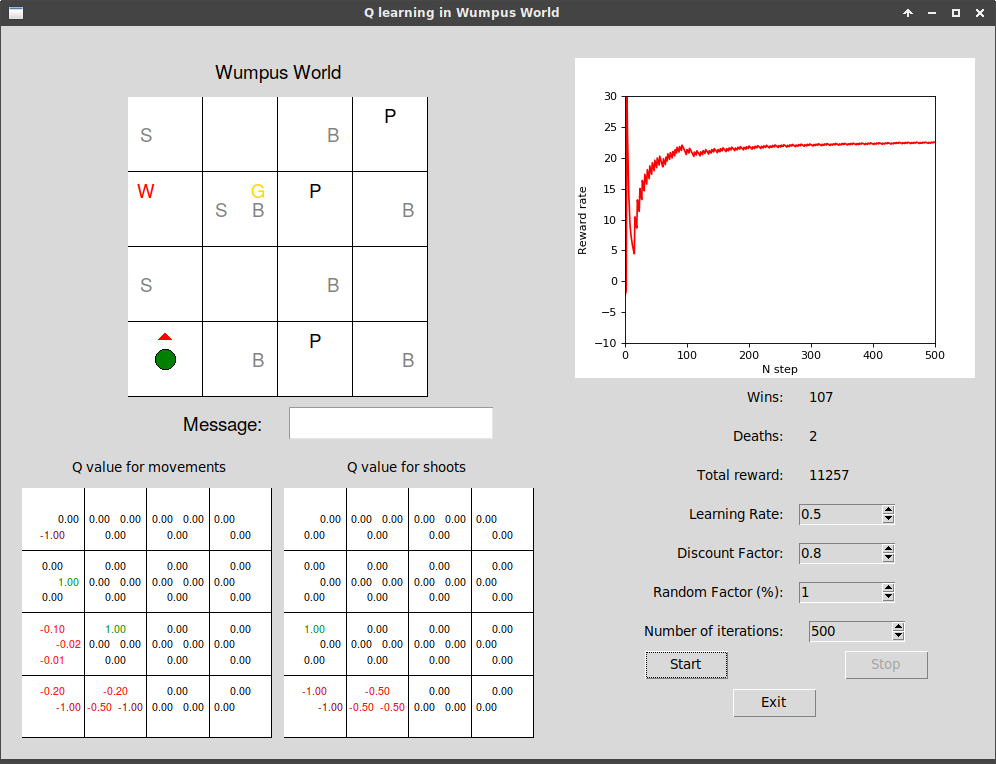
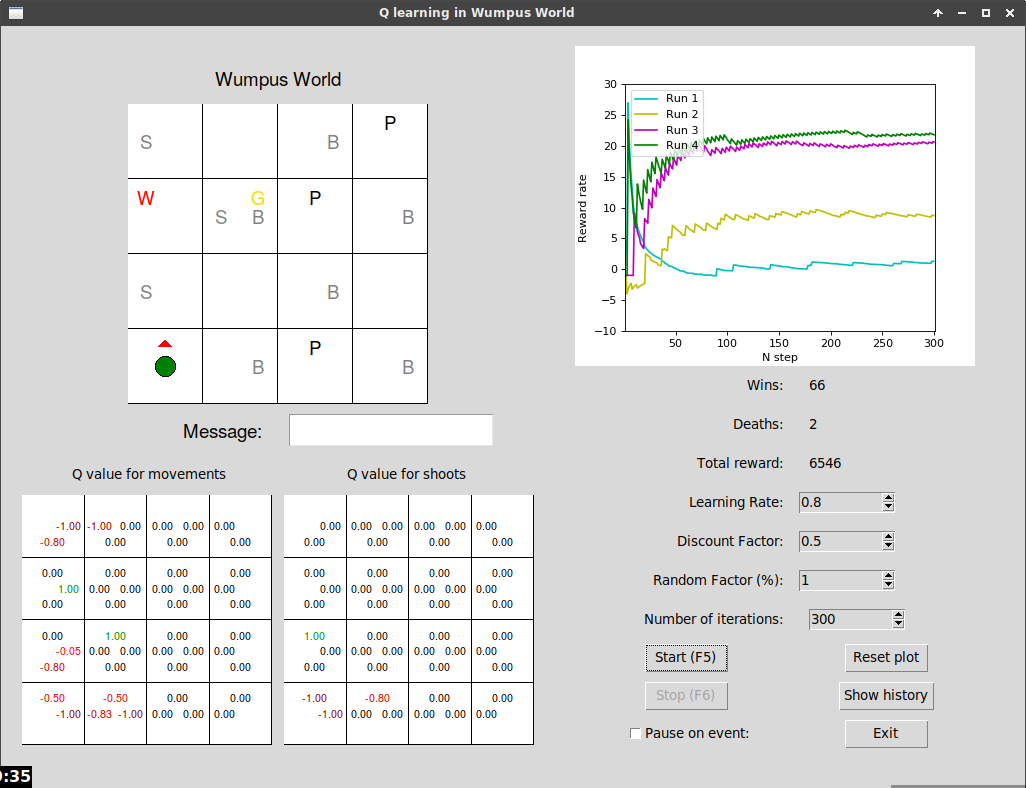
Allow user to change pause-on-event behaviour

diff --git a/wumpus.py b/wumpus.py
@@ -230,6 +230,7 @@ class GUI(object):
         self.wins = tk.StringVar(self.root)
         self.deaths = tk.StringVar(self.root)
         self.sumreward = tk.StringVar(self.root)
+        self.pause_on_evet = tk.BooleanVar(self.root)
         self.learning_rate.set(str(self.agent.learning_rate))
         self.discount_factor.set(str(self.agent.discount_factor))
         self.random_factor.set(str(self.agent.random_factor))
@@ -270,6 +271,7 @@ class GUI(object):
                                   textvariable = self.discount_factor, state='readonly')
         self.randbox = tk.Spinbox(self.sideframe, width=10, values=list(range(1,11))+list(range(20,101,5)),
                                  textvariable = self.random_factor, state='readonly')
+        self.pausebox = tk.Checkbutton(self.sideframe, text="Pause on event", variable=self.pause_on_evet)
         self.startbtn = ttk.Button(master=self.sideframe, text='Start (F5)', command=self.start_run)
         self.stopbtn = ttk.Button(master=self.sideframe, text='Stop (F6)', command=self.stop, state='disabled')
         self.exitbtn = ttk.Button(master=self.sideframe, text='Exit', command=self.exit)
@@ -293,9 +295,10 @@ class GUI(object):
         ttk.Label(self.sideframe, text="Number of iterations: ", justify='right', padding=10).grid(row=7, column = 0, sticky='e')
         self.iterbox.grid(row=7, column=1, padx=10, sticky='w')
         self.startbtn.grid(row=8,column=0, padx=10, pady=5)
-        self.stopbtn.grid(row=8, column=1, padx=10, pady=5)
-        self.resetbtn.grid(row=9, column=0, padx=10, pady=5)
+        self.resetbtn.grid(row=8, column=1, padx=10, pady=5)
+        self.stopbtn.grid(row=9, column=0, padx=10, pady=5)
         self.histbtn.grid(row=9, column=1, padx=10, pady=5)
+        self.pausebox.grid(row=10, column=0, padx=10, pady=5)
         self.exitbtn.grid(row=10, column=1, padx=10, pady=5)
         self.root.bind('<F5>', self.start_run)
 
@@ -465,7 +468,7 @@ class GUI(object):
             self.messagebox.insert('1.0',result if result != 'nope' else '')
             self.messagebox.config(state='disabled')
             self.messagebox.update()
-            if result != 'nope':
+            if result != 'nope' and self.pause_on_evet.get():
                 self.mainframe.after(490)
             for stringvar, value in zip([self.wins, self.deaths, self.sumreward],
                                         [self.agent.wins, self.agent.deaths,np.sum(self.agent.history)]):
